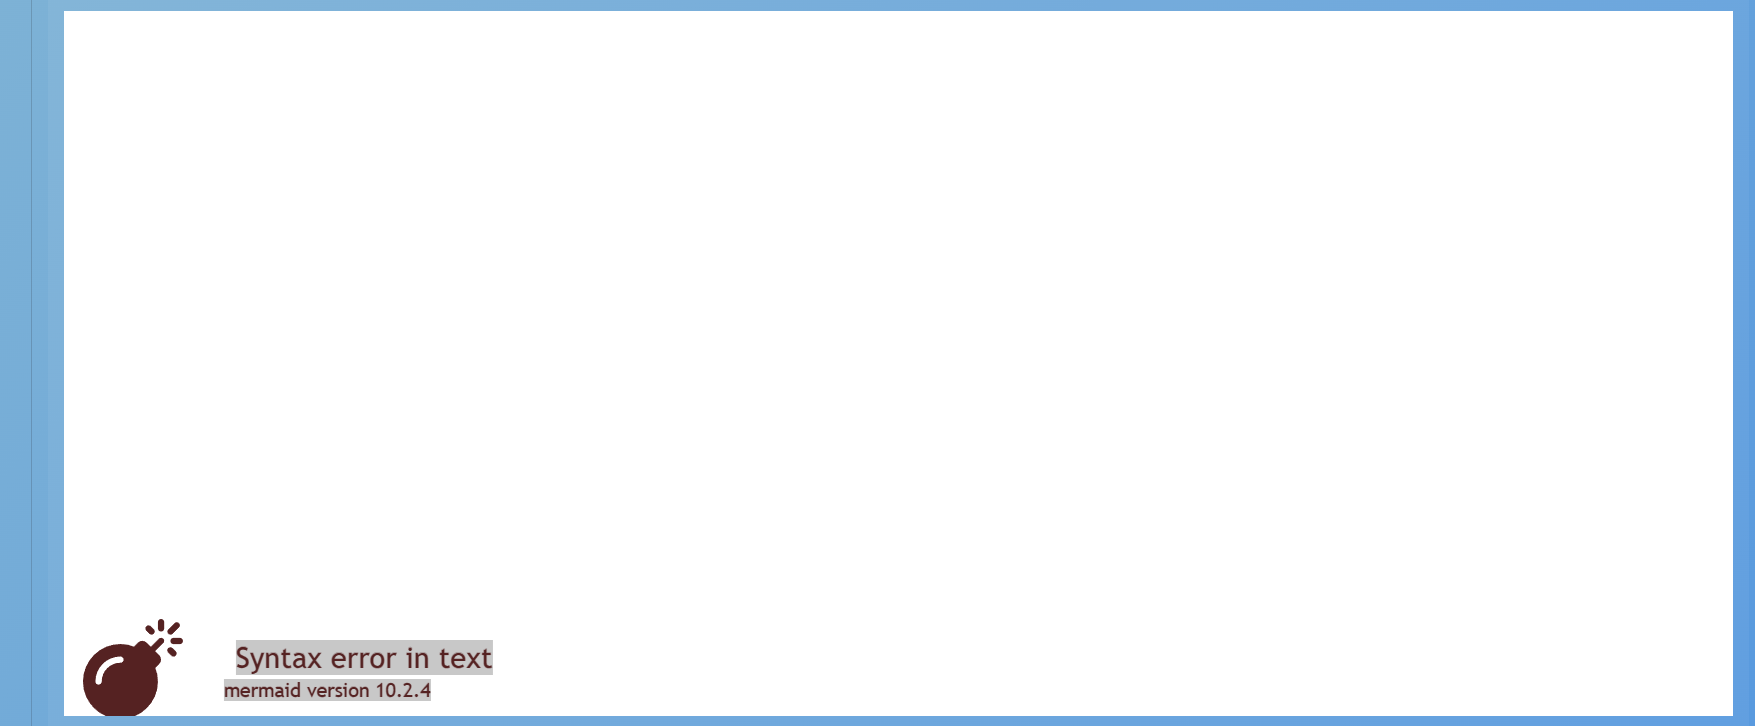
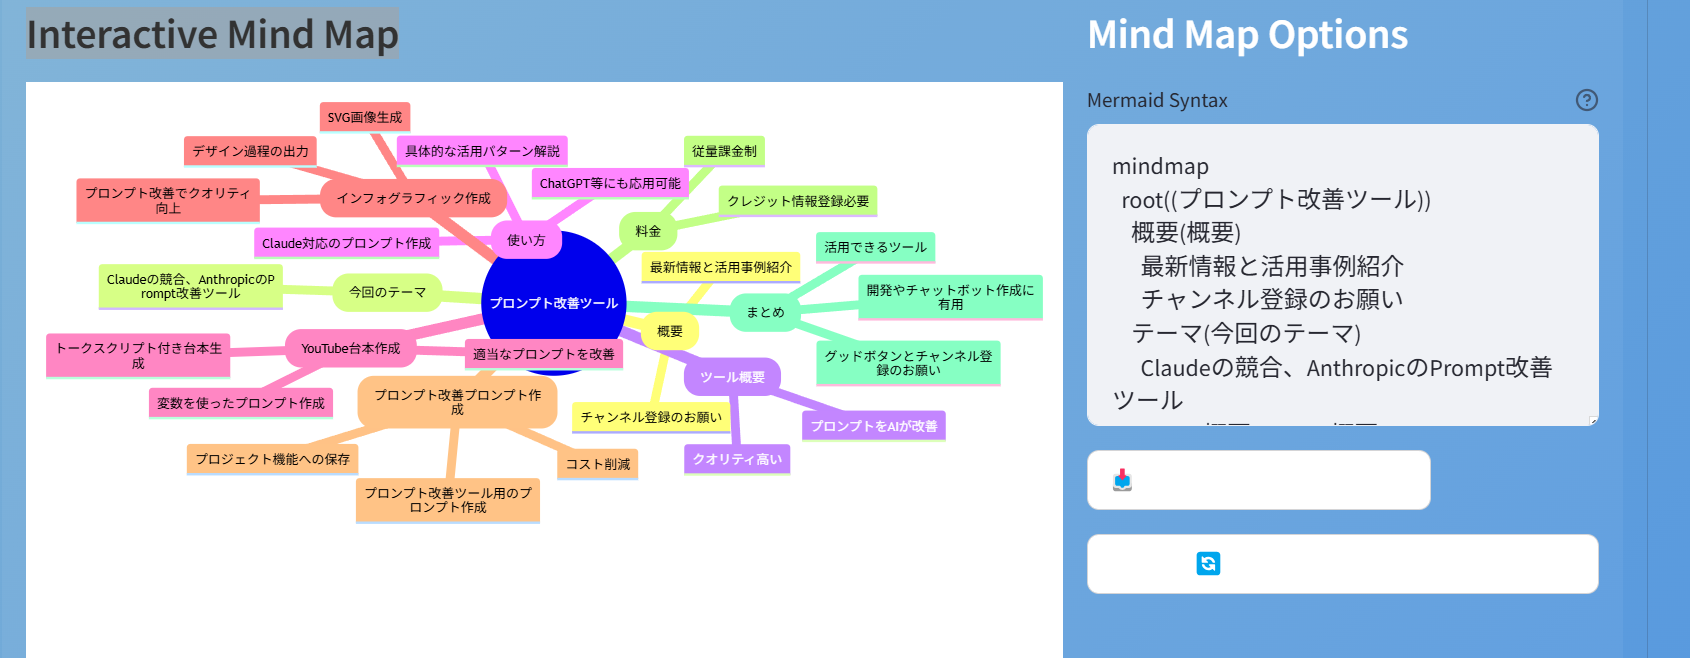
Agent query: Please verify if: 1) The mindmap has proper styling with root, topic, and subtopic classes, 2) The container has the glass morphism effect, and 3) The layout is properly organized with main view and options panel

diff --git a/styles/custom.css b/styles/custom.css
@@ -445,3 +445,57 @@ div.stApp {
         transform: translateY(0);
     }
 }
+
+/* Add new mindmap-specific styles */
+.mindmap-container {
+    background: rgba(255, 255, 255, 0.1);
+    border-radius: 16px;
+    padding: 2rem;
+    margin: 1.5rem 0;
+    backdrop-filter: blur(10px);
+    border: 1px solid rgba(255, 255, 255, 0.2);
+    box-shadow: 0 8px 32px rgba(0, 0, 0, 0.1);
+}
+
+.mindmap-visualization {
+    min-height: 600px;
+    width: 100%;
+    overflow: auto;
+    padding: 1rem;
+    background: rgba(255, 255, 255, 0.05);
+    border-radius: 12px;
+}
+
+.mindmap-controls {
+    display: flex;
+    gap: 1rem;
+    margin-bottom: 1rem;
+    flex-wrap: wrap;
+}
+
+.mindmap-control-button {
+    background: rgba(255, 255, 255, 0.1);
+    border: 1px solid rgba(255, 255, 255, 0.2);
+    border-radius: 8px;
+    padding: 0.5rem 1rem;
+    color: white;
+    cursor: pointer;
+    transition: all 0.3s ease;
+}
+
+.mindmap-control-button:hover {
+    background: rgba(255, 255, 255, 0.2);
+    transform: translateY(-1px);
+}
+
+/* Mermaid diagram customization */
+.mindmap-container .mermaid {
+    background: transparent !important;
+}
+
+.mindmap-container .section-header {
+    color: white;
+    margin-bottom: 1.5rem;
+    font-size: 1.8rem;
+    font-weight: 600;
+}

diff --git a/utils/mindmap_generator.py b/utils/mindmap_generator.py
@@ -22,12 +22,31 @@ class MindMapGenerator:
         
         # Remove special characters and emojis, keep basic punctuation and Japanese characters
         cleaned_text = re.sub(r'[^\w\s\u3000-\u9fff\u4e00-\u9faf\.,\-_()]', '', text)
+        # Break long text into multiple lines for better readability
+        if len(cleaned_text) > 30:
+            words = cleaned_text.split()
+            lines = []
+            current_line = []
+            current_length = 0
+            
+            for word in words:
+                if current_length + len(word) > 30:
+                    lines.append(' '.join(current_line))
+                    current_line = [word]
+                    current_length = len(word)
+                else:
+                    current_line.append(word)
+                    current_length += len(word) + 1
+                    
+            if current_line:
+                lines.append(' '.join(current_line))
+            cleaned_text = '<br/>' + '<br/>'.join(lines)
+        
         return cleaned_text.strip()
 
     def _format_mindmap_syntax(self, syntax):
-        """Format and validate mindmap syntax for Mermaid v10.2.4"""
+        """Format and validate mindmap syntax with enhanced visualization"""
         try:
-            # Basic validation
             if not syntax or not isinstance(syntax, str):
                 logger.error("Invalid syntax input")
                 return self._generate_fallback_mindmap()
@@ -36,68 +55,76 @@ class MindMapGenerator:
             lines = [line.rstrip() for line in syntax.strip().split('\n') if line.strip()]
             formatted_lines = []
 
-            # Ensure mindmap starts correctly
-            if not lines or lines[0].strip() != 'mindmap':
-                formatted_lines.append('mindmap')
-            else:
-                formatted_lines.append('mindmap')
-                lines = lines[1:]
+            # Add mindmap and style definitions
+            formatted_lines.extend([
+                'mindmap',
+                '  %% Node styles',
+                '  classDef root fill:#ff9,stroke:#333,stroke-width:2px',
+                '  classDef topic fill:#fef,stroke:#333,stroke-width:1px',
+                '  classDef subtopic fill:#eff,stroke:#333,stroke-width:1px'
+            ])
 
             # Process each line
             current_indent = 0
-            for line in lines:
-                # Calculate proper indentation
+            for line in lines[1:]:  # Skip 'mindmap' line
+                # Calculate indentation
                 indent_match = re.match(r'^(\s*)', line)
-                if indent_match:
-                    current_indent = len(indent_match.group(1)) // 2
-                    if current_indent > 3:  # Limit to 3 levels
-                        current_indent = 3
+                current_indent = len(indent_match.group(1)) // 2 if indent_match else 0
                 clean_line = line.lstrip()
 
-                # Validate node text
+                # Validate and format node text
                 clean_line = self._validate_node_text(clean_line)
                 
-                # Format the line with proper indentation
+                # Add style classes based on level
+                if current_indent == 0:
+                    if not clean_line.endswith(':::root'):
+                        clean_line = f"{clean_line}:::root"
+                elif current_indent == 1:
+                    if not clean_line.endswith(':::topic'):
+                        clean_line = f"{clean_line}:::topic"
+                else:
+                    if not clean_line.endswith(':::subtopic'):
+                        clean_line = f"{clean_line}:::subtopic"
+                
+                # Format line with proper indentation
                 formatted_line = '  ' * current_indent + clean_line
                 formatted_lines.append(formatted_line)
 
-            # Join and validate final syntax
-            result = '\n'.join(formatted_lines)
-            
-            # Validate structure
-            if len(formatted_lines) < 2:
-                logger.warning("Mindmap has too few nodes")
-                return self._generate_fallback_mindmap()
-
-            return result
+            return '\n'.join(formatted_lines)
 
         except Exception as e:
             logger.error(f"Syntax formatting error: {str(e)}")
             return self._generate_fallback_mindmap()
 
     def _generate_mindmap_internal(self, text):
-        """Internal method for mindmap generation"""
+        """Internal method for mindmap generation with improved structure"""
         prompt = f"""
-以下のテキストからシンプルなMermaid形式のマインドマップを生成してください：
+以下のテキストから構造化されたMermaid形式のマインドマップを生成してください：
 
 入力テキスト:
 {text}
 
+要件:
+1. 階層構造を明確に表現
+2. メインテーマは太字で強調
+3. 関連するトピックをグループ化
+4. サブトピックは簡潔に記述
+
 フォーマット:
 mindmap
-  root(メインテーマ)
-    トピック1
-      サブトピック1
-      サブトピック2
-    トピック2
-      サブトピック3
+  root(("メインテーマ")):::root
+    トピック1:::topic
+      サブトピック1:::subtopic
+      サブトピック2:::subtopic
+    トピック2:::topic
+      サブトピック3:::subtopic
 
 ルール:
 1. 最初の行は必ず 'mindmap'
 2. インデントは2スペース
-3. 特殊文字は使用しない
-4. スタイル定義は含めない
-5. シンプルな階層構造を維持
+3. 階層は最大3レベルまで
+4. 長いテキストは<br/>で改行
+5. スタイルクラスを適切に使用
 """
 
         try:
@@ -130,14 +157,18 @@ mindmap
             raise Exception(f"Mindmap generation failed: {str(e)}")
 
     def _generate_fallback_mindmap(self):
-        """Generate a simple fallback mindmap"""
+        """Generate a simple fallback mindmap with styling"""
         return """mindmap
-  root(コンテンツ概要)
-    トピック1
-      サブトピック1
-      サブトピック2
-    トピック2
-      サブトピック3"""
+  %% Node styles
+  classDef root fill:#ff9,stroke:#333,stroke-width:2px
+  classDef topic fill:#fef,stroke:#333,stroke-width:1px
+  classDef subtopic fill:#eff,stroke:#333,stroke-width:1px
+  root(("コンテンツ概要")):::root
+    トピック1:::topic
+      サブトピック1:::subtopic
+      サブトピック2:::subtopic
+    トピック2:::topic
+      サブトピック3:::subtopic"""
 
     def generate_mindmap(self, text):
         """Generate mindmap from text"""

diff --git a/main.py b/main.py
@@ -226,20 +226,43 @@ with st.expander("Step 3: Content Analysis", expanded=st.session_state.current_s
                         st.stop()
             
             if st.session_state.mindmap:
-                # Mindmap visualization section
+                st.markdown('''
+                <div class="mindmap-container glass-container">
+                    <div class="mindmap-visualization">
+                        <h3 class="section-header">Interactive Mind Map</h3>
+                        <!-- Mermaid diagram will be rendered here -->
+                    </div>
+                </div>
+                ''', unsafe_allow_html=True)
+
+                # Main content area
                 col1, col2 = st.columns([2, 1])
                 
                 with col1:
-                    st.markdown("### Interactive Mind Map")
                     try:
                         st_mermaid(st.session_state.mindmap, height="600px")
                     except Exception as e:
                         st.error(f"マインドマップの表示に失敗しました: {str(e)}")
                 
                 with col2:
-                    st.markdown("### Mind Map Options")
+                    st.markdown("""
+                    <div class="glass-container">
+                        <h3 class="section-header">Mind Map Options</h3>
+                    </div>
+                    """, unsafe_allow_html=True)
                     
-                    # Mermaid syntax display and copy button
+                    # Controls for mindmap interaction
+                    st.markdown('<div class="mindmap-controls">', unsafe_allow_html=True)
+                    
+                    # Display options
+                    st.selectbox(
+                        "表示サイズ",
+                        ["Small", "Medium", "Large"],
+                        index=1,
+                        key="mindmap_size"
+                    )
+                    
+                    # Mermaid syntax display
                     st.text_area(
                         "Mermaid Syntax",
                         value=st.session_state.mindmap,
